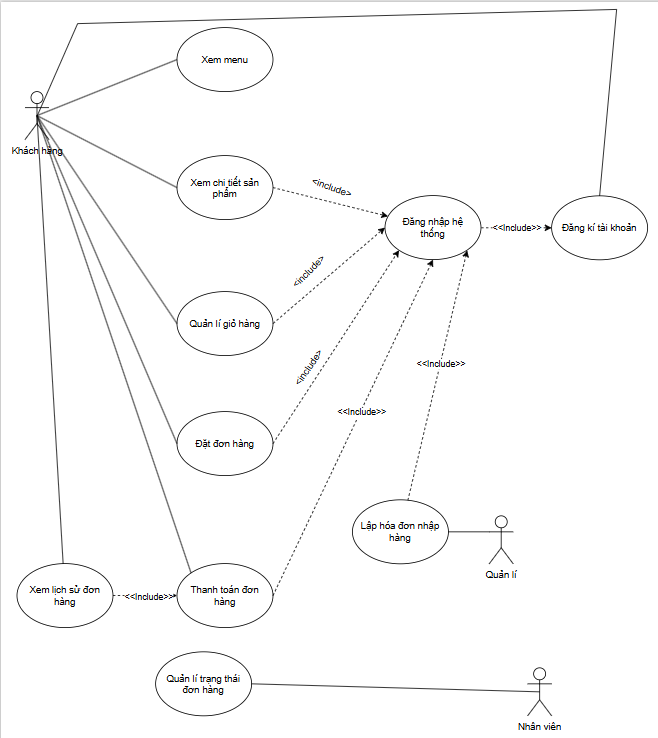
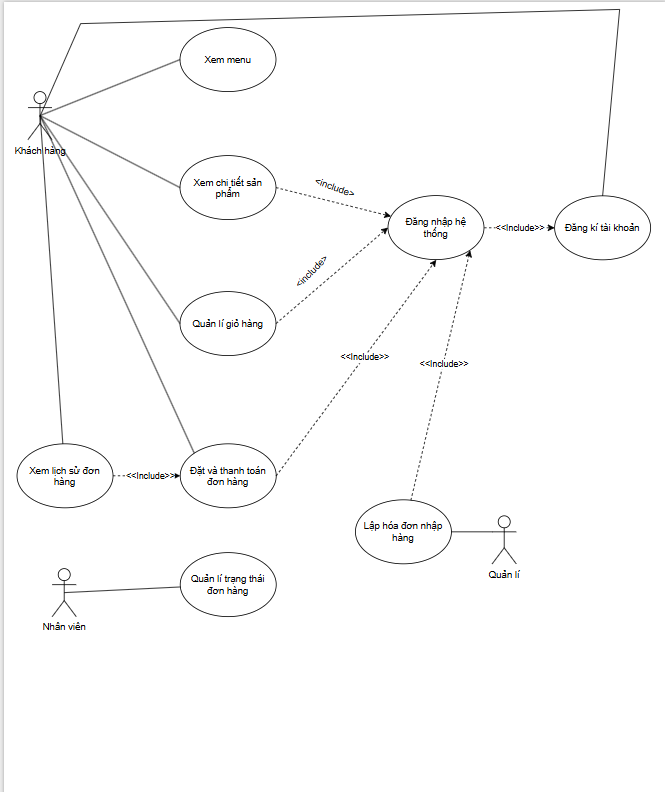
Thay đổi use-case. Chỉnh sửa SRS

diff --git a/docs/requirements/SRS.md b/docs/requirements/SRS.md
@@ -2,19 +2,19 @@
 
 ## 1. Yêu cầu chức năng (Functional Requirements)
 
-| Mã        | Tên yêu cầu                   | Nhóm tính năng | Ưu tiên    | Tiêu chí chấp nhận (Acceptance Criteria)                                                                                          |
-| :-------- | :---------------------------- | :------------- | :--------- | :-------------------------------------------------------------------------------------------------------------------------------- |
-| **FR-01** | Xem menu và chi tiết sản phẩm | Menu           | **Must**   | Hệ thống hiển thị danh sách sản phẩm. Khi bấm vào, hiển thị chi tiết (ảnh, giá, mô tả, tùy chọn size/topping).                    |
-| **FR-02** | Quản lý giỏ hàng              | Giỏ hàng       | **Must**   | Khách hàng có thể thêm/sửa/xóa sản phẩm. Tổng tiền cập nhật theo thời gian thực dựa trên các tùy chọn.                            |
-| **FR-03** | Đăng ký tài khoản             | Xác thực       | **Must**   | Khách hàng mới có thể đăng ký tài khoản. Thông tin mật khẩu phải được mã hóa (hash) trước khi lưu vào PostgreSQL.                 |
-| **FR-04** | Đăng nhập hệ thống            | Xác thực       | **Must**   | Người dùng đăng nhập thành công bằng tài khoản hợp lệ, hệ thống trả về token JWT để duy trì phiên đăng nhập.                      |
-| **FR-05** | Phân quyền truy cập           | Phân quyền     | **Must**   | Hệ thống dựa vào JWT để cấp quyền: Khách hàng (chỉ đặt hàng), Nhân viên (cập nhật trạng thái đơn), Quản lý (được quyền nhập kho). |
-| **FR-06** | Lập đơn hàng                  | Đặt đơn        | **Must**   | Tạo đơn hàng thành công để chuyển sang thanh toán.                                                                                |
-| **FR-07** | Thanh toán đơn hàng           | Thanh toán     | **Must**   | Hiển thị thanh toán mô phỏng (mã QR). Thanh toán thành công thì chuyển trạng thái thành công.                                     |
-| **FR-08** | Quản lý trạng thái đơn hàng   | Quản lý đơn    | **Must**   | Nhân viên quầy có thể xem danh sách đơn realtime và chuyển trạng thái (Chờ xử lý -> Đang pha chế -> Hoàn thành).                  |
-| **FR-09** | Xem lịch sử đơn hàng          | Lịch sử đơn    | **Should** | Khách hàng xem lại được danh sách các đơn đã đặt và trạng thái hiện tại của đơn hàng.                                             |
-| **FR-10** | Lập hóa đơn nhập hàng         | Quản lý kho    | **Must**   | Quản lý tạo hóa đơn nhập hàng. Khi hóa đơn lưu thành công, số lượng tồn kho tương ứng tự động cộng dồn.                           |
-| **FR-11** | Cập nhật tồn kho thủ công     | Quản lý kho    | **Won't**  | Tính năng tự thay đổi số lượng kho độc lập không qua hóa đơn nhập sẽ không được triển khai trong MVP này.                         |
+| Mã        | Tên yêu cầu                 | Nhóm tính năng      | Ưu tiên    | Tiêu chí chấp nhận (Acceptance Criteria)                                                                                          |
+| :-------- | :-------------------------- | :------------------ | :--------- | :-------------------------------------------------------------------------------------------------------------------------------- |
+| **FR-01** | Xem menu                    | Menu                | **Must**   | Hệ thống hiển thị danh sách sản phẩm.                                                                                             |
+| **FR-02** | Xem chi tiết sản phẩm       | Menu                | **Must**   | Hiển thị giá, tên có thể chọn size/topping.                                                                                       |
+| **FR-03** | Quản lý giỏ hàng            | Giỏ hàng            | **Must**   | Khách hàng có thể thêm/sửa/xóa sản phẩm. Tổng tiền cập nhật theo thời gian thực dựa trên các tùy chọn.                            |
+| **FR-04** | Đăng ký tài khoản           | Xác thực            | **Must**   | Khách hàng mới có thể đăng ký tài khoản. Thông tin mật khẩu phải được mã hóa (hash) trước khi lưu vào PostgreSQL.                 |
+| **FR-05** | Đăng nhập hệ thống          | Xác thực            | **Must**   | Người dùng đăng nhập thành công bằng tài khoản hợp lệ, hệ thống trả về token JWT để duy trì phiên đăng nhập.                      |
+| **FR-06** | Phân quyền truy cập         | Phân quyền          | **Must**   | Hệ thống dựa vào JWT để cấp quyền: Khách hàng (chỉ đặt hàng), Nhân viên (cập nhật trạng thái đơn), Quản lý (được quyền nhập kho). |
+| **FR-07** | Đặt và thanh toán đơn hàng  | Đặt đơn, Thanh toán | **Must**   | Tạo đơn hàng thành công để chuyển sang thanh toán.                                                                                |
+| **FR-08** | Quản lý trạng thái đơn hàng | Quản lý đơn         | **Must**   | Nhân viên quầy có thể xem danh sách đơn realtime và chuyển trạng thái (Chờ xử lý -> Đang pha chế -> Hoàn thành).                  |
+| **FR-09** | Xem lịch sử đơn hàng        | Lịch sử đơn         | **Should** | Khách hàng xem lại được danh sách các đơn đã đặt và trạng thái hiện tại của đơn hàng.                                             |
+| **FR-10** | Lập hóa đơn nhập hàng       | Quản lý kho         | **Must**   | Quản lý tạo hóa đơn nhập hàng. Khi hóa đơn lưu thành công, số lượng tồn kho tương ứng tự động cộng dồn.                           |
+| **FR-11** | Cập nhật tồn kho thủ công   | Quản lý kho         | **Won't**  | Tính năng tự thay đổi số lượng kho độc lập không qua hóa đơn nhập sẽ không được triển khai trong MVP này.                         |
 
 ## 2. Yêu cầu phi chức năng (Non-Functional Requirements)
 
